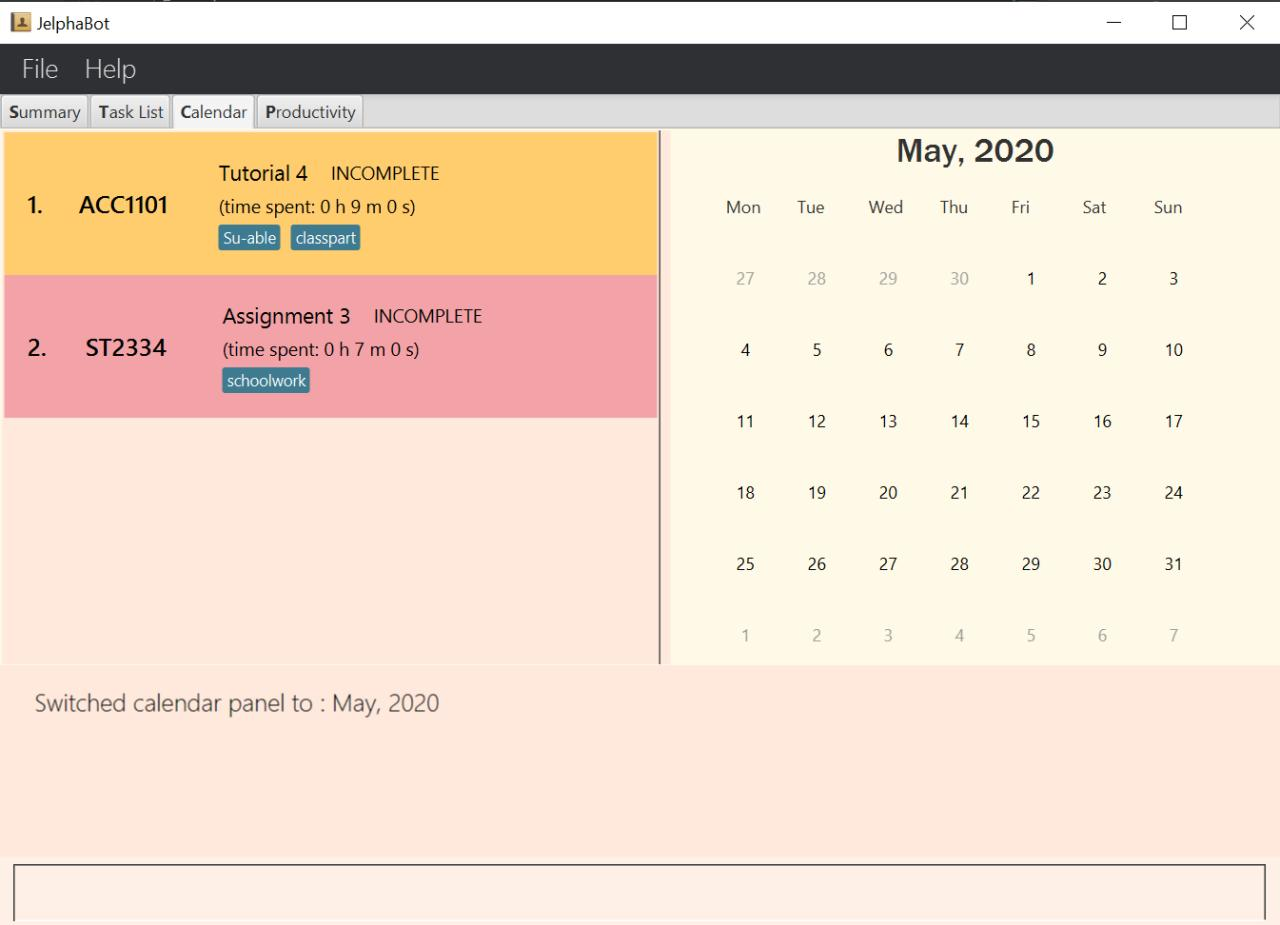
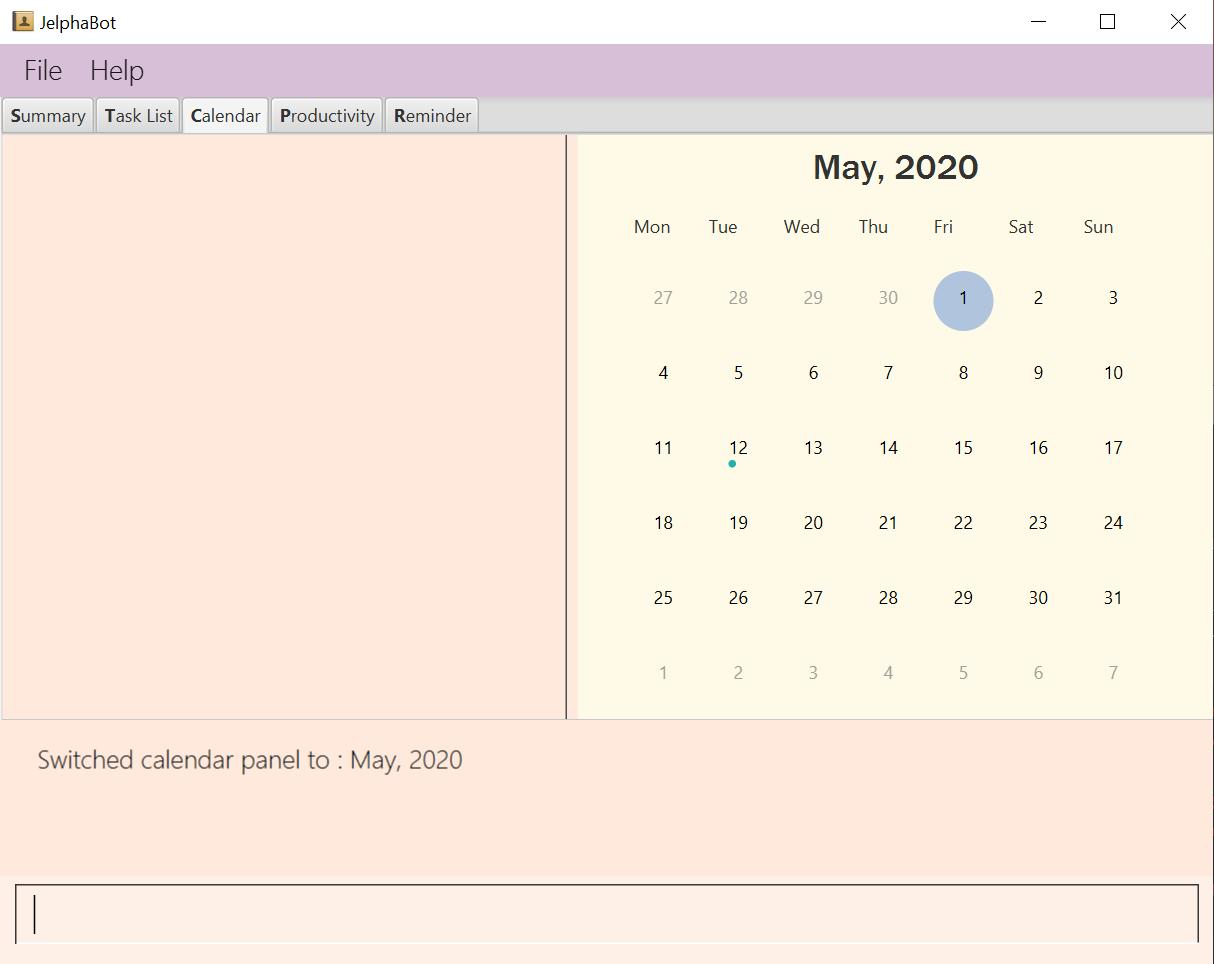
Rebuild pages at 7f13bf66131d7d34ff00200cfbe68b8887f00702

diff --git a/team/yapdianhao.html b/team/yapdianhao.html
@@ -195,6 +195,12 @@ by you.<br></p>
 </div>
 <div class="title">Figure 2. Example of expected result after running <code>reminder 1 days/1 hours/1</code></div>
 </div>
+<div class="imageblock text-center">
+<div class="content">
+<img src="../images/ug_figures/addReminderTab.png" alt="addReminderTab" width="600">
+</div>
+<div class="title">Figure 3. Example of new reminder appended to reminder list panel after running <code>reminder 1 days/1 hours/1</code></div>
+</div>
 <div class="sidebarblock">
 <div class="content">
 <div class="ulist">
@@ -250,7 +256,13 @@ by you.<br></p>
 <div class="content">
 <img src="../images/ug_figures/delReminder.png" alt="delReminder" width="600">
 </div>
-<div class="title">Figure 3. Example of expected result after running <code>delrem 1</code></div>
+<div class="title">Figure 4. Example of expected result after running <code>delrem 1</code></div>
+</div>
+<div class="imageblock text-center">
+<div class="content">
+<img src="../images/ug_figures/delReminderTab.png" alt="delReminderTab" width="600">
+</div>
+<div class="title">Figure 5. Example of reminder removed from reminder list panel after running <code>delrem 1</code></div>
 </div>
 <div class="sidebarblock">
 <div class="content">
@@ -283,7 +295,7 @@ and tasks that are past their deadline but have not been completed.</p>
 <div class="content">
 <img src="../images/ug_figures/reminderpopup.png" alt="reminderpopup" width="600">
 </div>
-<div class="title">Figure 4. Example of expected result after tasks are being reminded.</div>
+<div class="title">Figure 6. Example of expected result after tasks are being reminded.</div>
 </div>
 <div class="sidebarblock">
 <div class="content">
@@ -350,7 +362,7 @@ Each <code>Reminder</code> consists of 3 objects:<br>
 <div class="content">
 <img src="../images/Reminderclass.png" alt="Reminderclass">
 </div>
-<div class="title">Figure 5. Reminder Class Diagram in the Model component</div>
+<div class="title">Figure 7. Reminder Class Diagram in the Model component</div>
 </div>
 <div style="page-break-after: always;"></div>
 </div>
@@ -385,25 +397,25 @@ By the next time the users starts JelphaBot, it will remind the user should the 
 <div class="content">
 <img src="../images/AddReminderSequenceDiagram.png" alt="AddReminderSequenceDiagram">
 </div>
-<div class="title">Figure 6. Sequence Diagram after running <em>reminder 2 days/2 hours/1</em></div>
+<div class="title">Figure 8. Sequence Diagram after running <em>reminder 2 days/2 hours/1</em></div>
 </div>
 <div class="imageblock">
 <div class="content">
 <img src="../images/getCommandResultReferenceDiagram.png" alt="getCommandResultReferenceDiagram">
 </div>
-<div class="title">Figure 7. The reference frame of getting the <code>CommandResult</code> in the <code>Logic</code> component.</div>
+<div class="title">Figure 9. The reference frame of getting the <code>CommandResult</code> in the <code>Logic</code> component.</div>
 </div>
 <div class="imageblock">
 <div class="content">
 <img src="../images/addReminderReferenceDiagram.png" alt="addReminderReferenceDiagram">
 </div>
-<div class="title">Figure 8. The reference frame of adding the <code>Reminder</code> in the <code>Model</code> component.</div>
+<div class="title">Figure 10. The reference frame of adding the <code>Reminder</code> in the <code>Model</code> component.</div>
 </div>
 <div class="imageblock">
 <div class="content">
 <img src="../images/saveJelphaBot.png" alt="saveJelphaBot">
 </div>
-<div class="title">Figure 9. The reference frame of saving a <code>Reminder</code> by the <code>Storage</code> component.</div>
+<div class="title">Figure 11. The reference frame of saving a <code>Reminder</code> by the <code>Storage</code> component.</div>
 </div>
 <div class="admonitionblock note">
 <table>
@@ -525,4 +537,4 @@ Users do not need to switch back and forth between tabs to refer between <code>T
 </div>
 </div>
 </div>
-</div></div><div id="footer"><div class="container"><div id="footer-text">Last updated 2020-04-13 05:11:51 UTC</div></div></div></body></html>
+</div></div><div id="footer"><div class="container"><div id="footer-text">Last updated 2020-04-13 05:19:28 UTC</div></div></div></body></html>

diff --git a/UserGuide.html b/UserGuide.html
@@ -956,7 +956,8 @@ Format: <code>calendar MONTHYEAR</code></p>
 <div class="title">Figure 20. Example of expected result after running <code>calendar May-2020</code></div>
 </div>
 <div class="paragraph">
-<p>Displays month of May in the year 2020 in the calendar panel on the right.</p>
+<p>Displays month of May in the year 2020 in the calendar panel on the right. Task list panel on the left
+is empty as there are no tasks due on 1-May-2020.</p>
 </div>
 <div class="admonitionblock important">
 <table>
@@ -1219,6 +1220,12 @@ by you.<br></p>
 </div>
 <div class="title">Figure 27. Example of expected result after running <code>reminder 1 days/1 hours/1</code></div>
 </div>
+<div class="imageblock text-center">
+<div class="content">
+<img src="images/ug_figures/addReminderTab.png" alt="addReminderTab" width="600">
+</div>
+<div class="title">Figure 28. Example of new reminder appended to reminder list panel after running <code>reminder 1 days/1 hours/1</code></div>
+</div>
 <div class="sidebarblock">
 <div class="content">
 <div class="ulist">
@@ -1274,7 +1281,13 @@ by you.<br></p>
 <div class="content">
 <img src="images/ug_figures/delReminder.png" alt="delReminder" width="600">
 </div>
-<div class="title">Figure 28. Example of expected result after running <code>delrem 1</code></div>
+<div class="title">Figure 29. Example of expected result after running <code>delrem 1</code></div>
+</div>
+<div class="imageblock text-center">
+<div class="content">
+<img src="images/ug_figures/delReminderTab.png" alt="delReminderTab" width="600">
+</div>
+<div class="title">Figure 30. Example of reminder removed from reminder list panel after running <code>delrem 1</code></div>
 </div>
 <div class="sidebarblock">
 <div class="content">
@@ -1307,7 +1320,7 @@ and tasks that are past their deadline but have not been completed.</p>
 <div class="content">
 <img src="images/ug_figures/reminderpopup.png" alt="reminderpopup" width="600">
 </div>
-<div class="title">Figure 29. Example of expected result after tasks are being reminded.</div>
+<div class="title">Figure 31. Example of expected result after tasks are being reminded.</div>
 </div>
 <div class="sidebarblock">
 <div class="content">
@@ -1454,4 +1467,4 @@ e.g. <code>calendar Apr-2020</code></p>
 </ul>
 </div>
 </div>
-</div></div><div id="footer"><div class="container"><div id="footer-text">Last updated 2020-04-13 05:11:51 UTC</div></div></div></body></html>
+</div></div><div id="footer"><div class="container"><div id="footer-text">Last updated 2020-04-13 05:19:28 UTC</div></div></div></body></html>

diff --git a/team/alam8064.html b/team/alam8064.html
@@ -252,7 +252,8 @@ Format: <code>calendar MONTHYEAR</code></p>
 <div class="title">Figure 2. Example of expected result after running <code>calendar May-2020</code></div>
 </div>
 <div class="paragraph">
-<p>Displays month of May in the year 2020 in the calendar panel on the right.</p>
+<p>Displays month of May in the year 2020 in the calendar panel on the right. Task list panel on the left
+is empty as there are no tasks due on 1-May-2020.</p>
 </div>
 <div class="admonitionblock important">
 <table>
@@ -589,4 +590,4 @@ The ease of implementation is crucial given the tight deadlines we have to meet 
 </div>
 </div>
 </div>
-</div></div><div id="footer"><div class="container"><div id="footer-text">Last updated 2020-04-13 05:11:51 UTC</div></div></div></body></html>
+</div></div><div id="footer"><div class="container"><div id="footer-text">Last updated 2020-04-13 05:19:28 UTC</div></div></div></body></html>

diff --git a/tutorials/RemovingFields.html b/tutorials/RemovingFields.html
@@ -175,4 +175,4 @@ While keeping the <code>address</code> field in the json files does not cause th
 <p>You can go through each individual <code>json</code> file and manually remove the <code>address</code> field.</p>
 </div>
 </div>
-</div></div><div id="footer"><div class="container"><div id="footer-text">Last updated 2020-04-13 05:11:51 UTC</div></div></div></body></html>
+</div></div><div id="footer"><div class="container"><div id="footer-text">Last updated 2020-04-13 05:19:28 UTC</div></div></div></body></html>

diff --git a/tutorials/AddRemark.html b/tutorials/AddRemark.html
@@ -616,4 +616,4 @@ In this case, <code>CommandTestUtil#assertCommandSuccess</code> is the best fit 
 <p>This concludes the tutorial for adding a new <code>Command</code> to AddressBook.</p>
 </div>
 </div>
-</div></div><div id="footer"><div class="container"><div id="footer-text">Last updated 2020-04-13 05:11:51 UTC</div></div></div></body></html>
+</div></div><div id="footer"><div class="container"><div id="footer-text">Last updated 2020-04-13 05:19:28 UTC</div></div></div></body></html>

diff --git a/Testing.html b/Testing.html
@@ -90,4 +90,4 @@ e.g. <code>LogicManagerTest</code></p>
 <div class="title">Figure 1. <code>Accessibility</code> permission is granted to <code>IntelliJ IDEA</code></div>
 </div>
 </div>
-</div></div><div id="footer"><div class="container"><div id="footer-text">Last updated 2020-04-13 05:11:51 UTC</div></div></div></body></html>
+</div></div><div id="footer"><div class="container"><div id="footer-text">Last updated 2020-04-13 05:19:28 UTC</div></div></div></body></html>

diff --git a/team/johndoe.html b/team/johndoe.html
@@ -399,4 +399,4 @@ This is the behavior that most modern desktop applications follow.</p>
 <p><em>{Optionally, you may include other projects in your portfolio.}</em></p>
 </div>
 </div>
-</div></div><div id="footer"><div class="container"><div id="footer-text">Last updated 2020-04-13 05:11:51 UTC</div></div></div></body></html>
+</div></div><div id="footer"><div class="container"><div id="footer-text">Last updated 2020-04-13 05:19:28 UTC</div></div></div></body></html>

diff --git a/DeveloperGuide.html b/DeveloperGuide.html
@@ -3831,4 +3831,4 @@ In the end, our group managed to achieve a high level of testing for most <code>
 </div>
 </div>
 </div>
-</div></div><div id="footer"><div class="container"><div id="footer-text">Last updated 2020-04-13 05:11:51 UTC</div></div></div></body></html>
+</div></div><div id="footer"><div class="container"><div id="footer-text">Last updated 2020-04-13 05:19:28 UTC</div></div></div></body></html>

diff --git a/LearningOutcomes.html b/LearningOutcomes.html
@@ -474,4 +474,4 @@ of storages, but different number of storages (e.g. save to both a text file and
 </div>
 </div>
 </div>
-</div></div><div id="footer"><div class="container"><div id="footer-text">Last updated 2020-04-13 05:11:51 UTC</div></div></div></body></html>
+</div></div><div id="footer"><div class="container"><div id="footer-text">Last updated 2020-04-13 05:19:28 UTC</div></div></div></body></html>

diff --git a/SettingUp.html b/SettingUp.html
@@ -180,4 +180,4 @@ Having both Travis and AppVeyor ensures your App works on both Unix-based platfo
 </div>
 </div>
 </div>
-</div></div><div id="footer"><div class="container"><div id="footer-text">Last updated 2020-04-13 05:11:51 UTC</div></div></div></body></html>
+</div></div><div id="footer"><div class="container"><div id="footer-text">Last updated 2020-04-13 05:19:28 UTC</div></div></div></body></html>

diff --git a/team/clouddoggo.html b/team/clouddoggo.html
@@ -490,4 +490,4 @@ Attempting to start a timer for a task which is marked as completed or stop a ta
 </div>
 </div>
 </div>
-</div></div><div id="footer"><div class="container"><div id="footer-text">Last updated 2020-04-13 05:11:51 UTC</div></div></div></body></html>
+</div></div><div id="footer"><div class="container"><div id="footer-text">Last updated 2020-04-13 05:19:28 UTC</div></div></div></body></html>

diff --git a/team/eedenong.html b/team/eedenong.html
@@ -411,4 +411,4 @@ This makes it very user-friendly, and it also easily scalable in the future as e
 </div>
 </div>
 </div>
-</div></div><div id="footer"><div class="container"><div id="footer-text">Last updated 2020-04-13 05:11:51 UTC</div></div></div></body></html>
+</div></div><div id="footer"><div class="container"><div id="footer-text">Last updated 2020-04-13 05:19:28 UTC</div></div></div></body></html>
